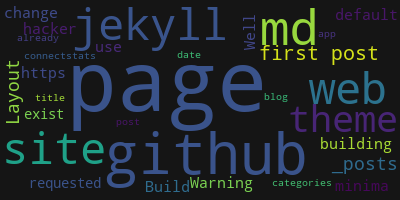
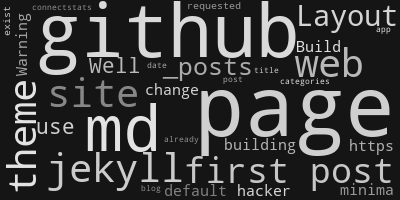
ability to make the thumbnail wordcloud and new post about it

diff --git a/_layouts/home.html b/_layouts/home.html
@@ -15,6 +15,13 @@ layout: default
       {%- for post in site.posts -%}
       <li>
         {%- assign date_format = site.minima.date_format | default: "%b %-d, %Y" -%}
+	{% assign filename = post.path | remove_first: "_posts/" | replace: '.md', '.png' | prepend: "/assets/clouds/" %}
+	{% for static_file in site.static_files %}
+	{% if static_file.path == filename %}
+	<a href="{{ post.url | relative_url }}"><img src="{{ filename }}" width="120px" /></a>
+	{% endif %}
+	{% endfor %}
+	
         <span class="post-meta">{{ post.date | date: date_format }}</span>
         <h3>
           <a class="post-link" href="{{ post.url | relative_url }}">

diff --git a/_sass/minima/_layout.scss b/_sass/minima/_layout.scss
@@ -195,6 +195,11 @@
   > li {
     margin-bottom: $spacing-unit;
   }
+
+  li img {
+      float: left;
+      margin: 0 15px 0 0;
+  }
 }
 
 .post-meta {

diff --git a/_bld/gencloud.py b/_bld/gencloud.py
@@ -1,3 +1,41 @@
-#!/usr/local/bin/python3
+#!/Users/brice/anaconda3/bin/python3
 
-import 
+import argparse
+import os
+from wordcloud import WordCloud
+import random
+
+def grey_color_func( word, font_size, position, orientation, random_state=None, **kwargs):
+    return "hsl(0, 0%%, %d%%)" % random.randint(50, 90)
+
+class Generator:
+    def __init__(self,args):
+        self.args = args
+
+
+    def generate(self):
+        for name in self.args.source:
+            if name.endswith( '.md' ) and os.path.isfile( name ):
+                self.generate_one( name )
+
+    def generate_one(self,name):
+        if os.path.isdir( self.args.outdir ):
+            outname = os.path.join( self.args.outdir, os.path.basename( name )[:-len('md')] + "png" )
+            fp = open( name, 'r' )
+            text = fp.read()
+            wordcloud = WordCloud( max_words = 30, background_color = (21,21,21), color_func=grey_color_func).generate( text )
+            #wordcloud.recolor( color_func=grey_color_func, random_state=3)
+            print( "{} -> {}".format( name, outname ) )
+            wordcloud.to_file( outname )
+
+
+if __name__ == "__main__":
+    
+    parser = argparse.ArgumentParser( description='Generate word cloud image' )
+    parser.add_argument( 'source', metavar='Arguments', nargs='*' )
+    parser.add_argument( '-o', '--outdir', help='directory for the output', default='../assets/clouds')
+
+    args = parser.parse_args()
+
+    generator = Generator( args )
+    generator.generate()

diff --git a/_posts/2018-12-09-wordcloud-jekyll-thumbnail.md b/_posts/2018-12-09-wordcloud-jekyll-thumbnail.md
@@ -1,0 +1,94 @@
+---
+layout: post
+title:  "Adding a word cloud thumbnail to post titles in jekyll"
+date:   2018-12-09 13:50:13 +0100
+categories: web
+comments: true
+---
+
+I love word cloud. As I have just started a site with jekyll I wondered how would it look to add a word cloud thumbnail to the list of post as a thumbnail and how hard would it be?
+
+## Building the word cloud images
+
+My first instinct was to see if there was a python package to build wordcloud. I know python quite well, and would definitely be easy to automate the generation of the images. And of course python has usually pretty much any type of [module you can ever dream of](https://xkcd.com/353/), so felt like a good start.
+
+A quick web search later and of course, there is a very nice and easy to [use package](http://amueller.github.io/word_cloud/) already. Install into my anaconda setup was trivial with `conda install -c conda-forge wordcloud`.
+
+It was then trivial to loop through the posts files and generate a corresponding word cloud image for each
+
+```python
+for fn in allposts:
+    if fn.endswith(".md") and os.path.isfile(fn):
+        fp = open( post_dir + fn,'r')
+        text = fp.read()
+        wordcloud = WordCloud(max_words=30,background_color=(21,21,21)).generate(text)
+        outname = img_dir + fn[:-len('md')] + 'png'
+        wordcloud.to_file(outname)
+```
+I just picked the background color to match the background I had set in my jekyll site theme.
+
+I set the `img_dir` to be a subfolder `/assets/clouds` in the side, et voila, the thumbnails were ready.
+
+## Adding the thumbnail to the list of posts
+
+Next step was to figure out how to automatically add the image to the list of post. For that I had to find out a bit more about which [liquid tag and filters](https://jekyllrb.com/docs/liquid/filters/)  were available.
+
+It was actually quite simple to generate the thumbnail file name replacing the prefix by the path with the images and the suffix with png
+
+```html
+{% raw %}{% assign filename = post.path | remove_first: '_posts/' | replace: '.md', '.png' | prepend: '/assets/clouds/' %}{% endraw %}
+```
+
+I also wanted to make sure if the png didn't exist that the generation would just skip the image. I found out that there was a `site.static_files` variables that could help, I just had to iterate through that and see if the required image was found. Which resulted in the following code in my `home.html` template:
+
+```html
+{% raw %}
+      <li>
+        {%- assign date_format = site.minima.date_format | default: "%b %-d, %Y" -%}
+	{% assign filename = post.path | remove_first: "_posts/" | replace: '.md', '.png' | prepend: "/assets/clouds/" %}
+	{% for static_file in site.static_files %}
+	{% if static_file.path == filename %}
+	<a href="{{ post.url | relative_url }}"><img src="{{ filename }}" width="120px" /></a>
+	{% endif %}
+	{% endfor %}
+	
+        <span class="post-meta">{{ post.date | date: date_format }}</span>
+        <h3>
+          <a class="post-link" href="{{ post.url | relative_url }}">
+            {{ post.title | escape }}
+          </a>
+        </h3>
+{% endraw %}
+```
+
+The last stage was to work out how to get the thumbnail properly placed to the left in the list
+
+## Positioning the thumbnail
+
+This turned out quite trivial to do, after a quick web search. As expected a list with thumbnail is quite a common occurence on the way. Just required a few lines edit to the `_layout.scss` file in the post-list class to specify to float the `img` under `li` and add a margin
+
+```css
+.post-list {
+  li img {
+      float: left;
+      margin: 0 15px 0 0;
+  }
+}
+```
+
+## Automating the generation
+
+The last piece was to automate the process of generating the word cloud images. Easiest way was to create a small python script and a make file to achieve that.
+I created a new directory `_bld` in my [website repo](https://github.com/roznet/roznet.github.io), and simple makefile
+
+```make
+POST_FILES=$(shell find $(POST_DIR) -type f -name *.md)
+IMG_FILES=$(patsubst $(POST_DIR)/%,$(IMG_DIR)/%,$(POST_FILES:.md=.png))
+
+all: $(IMG_FILES)
+
+$(IMG_DIR)/%.png: $(POST_DIR)/%.md
+	./gencloud.py -o $(IMG_DIR) $<
+```
+
+You can see the final code in my [website repo](https://github.com/roznet/roznet.github.io) and how the list looks [here](https://roznet.github.io)
